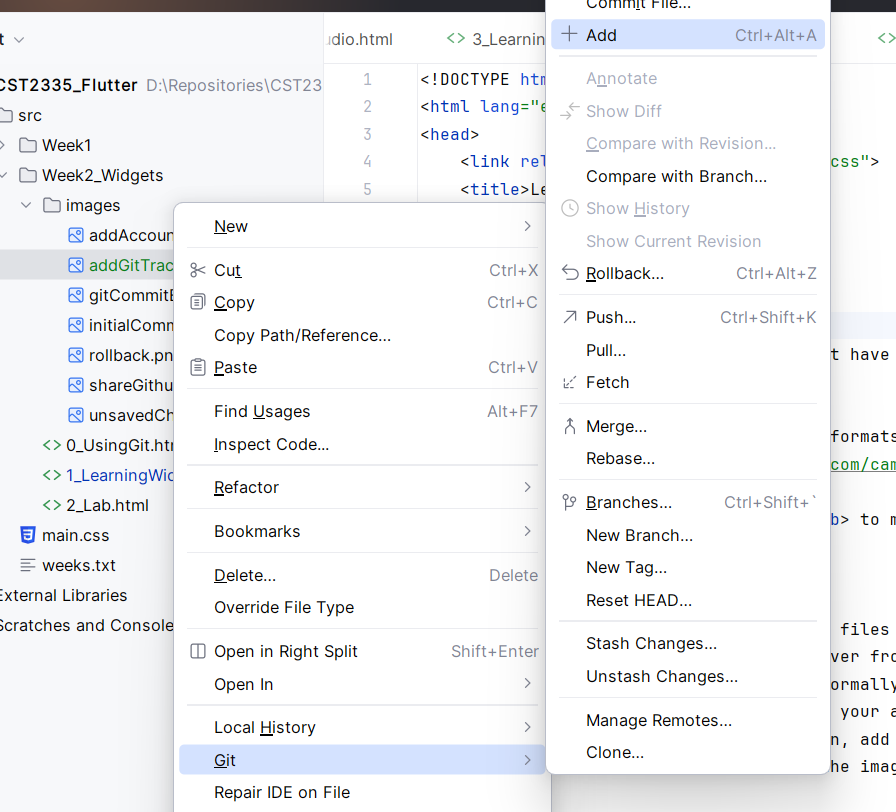
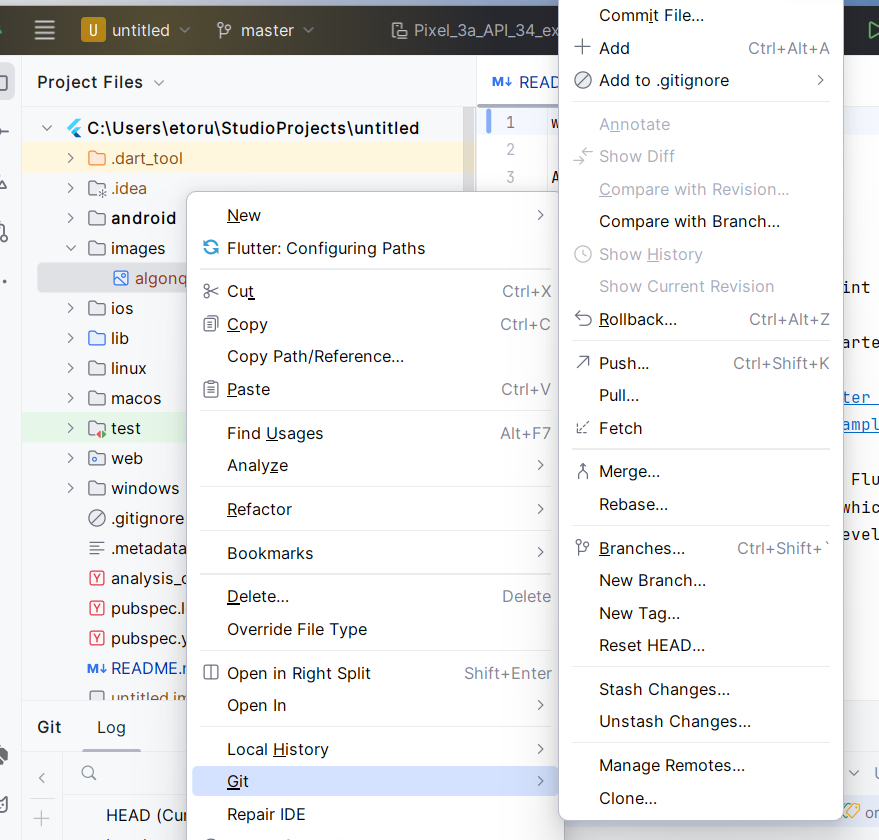
Fixing up week2

diff --git a/src/Week2_Widgets/2_LearningWidgets.html b/src/Week2_Widgets/2_LearningWidgets.html
@@ -18,7 +18,7 @@
 </p>
 <h2>Image</h2>
 <p>Images can be any of the normal image formats: JPG, PNG, GIF, BMP. Let's start by downloading an image from the internet onto our computer:
-    <a href="http://www.algonquincollege.com/campusservices/files/2020/04/AC-Pembroke-ZoomBackground-01-.jpg">http://www.algonquincollege.com/campusservices/files/2020/04/AC-Pembroke-ZoomBackground-01-.jpg</a>
+    <a href="http://www.algonquincollege.com/campusservices/files/2020/04/AC-Pembroke-ZoomBackground-01-.jpg" target="_blank">http://www.algonquincollege.com/campusservices/files/2020/04/AC-Pembroke-ZoomBackground-01-.jpg</a>
 
 <br>Rename the file to <b>algonquin.jpg</b> to make things simple. Next in your Flutter project, create a directory called "images" in the root project folder. Then copy your algonquin.jpg file into the images folder.</p>
 <h2>Git Tracking</h2>
@@ -50,7 +50,17 @@ the file isn't even on the Git tracking list. A colour or Green means that the f
 <p>Go ahead and change the width and height parameters and you should see your program react immediately without recompiling. This
 is a great feature of modern programming languages called <b>"Hot swapping"</b>. It is basically changing the code of the program while it is still running.
 You don't need to recompile and restart your program.</p>
-<p>At this point, let's commit our code to git. </p>
+
+
+<h2>Committing changes</h2>
+<p>To save the work from today, click on the "Master" git button on the top of AndroidStudio. From the list, click on "Commit":
+    <img src="images/commitButton.png">
+<p>The next window show the list of Updates to the project. These are the files that have changed since the last time you committed. You must
+    give an update message describing what has changed in these files.<img src="images/changesToProject.png">
+<p>Click on "Commit" to save the updates to your project. Notice that after the commit, all the filenames change to black color.</p>
+<!-- p>Then to upload those changes to your Github repository, click on the "Push" button to send your changes <img src="images/pushChanges.png"> </p-->
+
+<hr>
 <h2>Text</h2>
 <p> We have already looked at <b>Text</b> last week, but the Text widget normally shows a String. You can also change the size of the string using the <b>fontSize</b> parameter.
 
@@ -76,6 +86,9 @@ This shows a button with the text "Click Me", but we have to write a function <b
     )</pre>
 
 <p> An ElevatedButton can take any Widget as its child: parameter so that you can put Text, Images, etc. and when you click on the Button's surface, it will call the <b>onPressed</b> function.</p>
+<p>Go ahead again and commit your work as you did above. This time, add the commit message <b>"Added a button"</b>.</p>
+<hr>
+
 <h2>Checkbox</h2>
 <p>A Checkbox takes a <b>value</b> parameter, which should be a boolean indicating whether the box is checked or not. There should also be a function which gets called whenever the user clicks on the checkbox.
 This function passes in a boolean indicating whether the box is now checked or not.  Let's declare an instance variable to store if this should be checked or not:
@@ -89,11 +102,13 @@ This function passes in a boolean indicating whether the box is now checked or n
 <p> This means that Flutter will check that newValue not null. If it is null, then the app will crash. You don't have to worry about this because if you are clicking on a checkbox, then the checkbox exists
     and it has a true/false value. I'm not sure how it can be null in the first place.
 </p>
+<hr>
 <h2>Switch</h2>
 <p>A Switch works in the same way as a Checkbox. It can either be in an "On" state or "Off" state. In fact, just copy and paste the Checkbox line from above but change Checkbox to Switch. It will still have a
 <b>value:</b> parameter and an <b>onChanged: </b> callback function. Leave the callback function the same so that it will also change the value of <b>isChecked</b>. This just shows that when a variable gets updated using
 <b>setState()</b>, then any widget that uses that variable gets updated:<pre>Switch(value:isChecked, onChanged: (newValue) {  setState(() { isChecked = newValue!; });}),
 </pre></p>
+<hr>
 <h2>TextField</h2>
 <p>
     TextField allows a user to type in some text. This is used for login name, password, address, etc. In Flutter, you use a
@@ -142,13 +157,6 @@ This function passes in a boolean indicating whether the box is now checked or n
         labelText: "First name"
     )),</pre>
 </p>
-<h2>Committing changes</h2>
-<p>To save the work from today, click on the "Master" git button on the top of AndroidStudio. From the list, click on "Commit":
-<img src="images/commitButton.png">
-<p>The next window show the list of Updates to the project. These are the files that have changed since the last time you committed. You must
-    give an update message describing what has changed in these files.<img src="images/changesToProject.png">
-<p>Click on "Commit" to save the updates to your project. Notice that after the commit, all the filenames change to black color.</p>
-<p>Then to upload those changes to your Github repository, click on the "Push" button to send your changes <img src="images/pushChanges.png"> </p>
 <br><br><br><br><br><br>
 </body>
 </html>

diff --git a/src/Week2_Widgets/1_UsingGit.html b/src/Week2_Widgets/1_UsingGit.html
@@ -13,7 +13,7 @@
 <p><img src="images/shareGithub.png"></p>
 <p>On the next window, select "Add account:" to link to your Github account</p>
 <p><img src="images/addAccount.png" ></p>
-<p>Then log in to your Github account using your web browser. Once you have finished, you can close the browser and come back to Android Studio where , click on the "Share" button.</p>
+<p>Then select "Log in via Github". This will open a web browser where you click on "Authorize in GitHub". Log in to your Github account using your web browser. Once you have finished, you can close the browser and come back to Android Studio where , click on the "Share" button.</p>
 <p>You will get a list of all the files from your project that you will upload to your github account:
 <img src="images/initialCommit.png">
 <p> You must also specify a message that usually describes what changes your are saving. Your first time, it is normal to use

diff --git a/src/Week1/1_InstallFlutter.html b/src/Week1/1_InstallFlutter.html
@@ -46,6 +46,9 @@
 also uses a new feature called <b>Hot-Swapping</b> of code, meaning that you don't need to restart your application to recompile your program.
 <hr>
 <h1 >Create a Flutter Project</h1>
+<p>First, you must make sure that Git is working properly on your computer. Run this command to make every folder a safe folder to run git:
+<pre>git config --global --add safe.directory '*'</pre>
+<p>This just declares that every directory is safe for git to work in.</p>
 <ol type="1">
     <li>In Android Studio, select "File" -&gt; "New" -&gt; "New Flutter Project".  Make sure to select "Flutter" on the left side, and select the
         directory where you unzipped the Flutter SDK.<img src="images/createProject.png"
